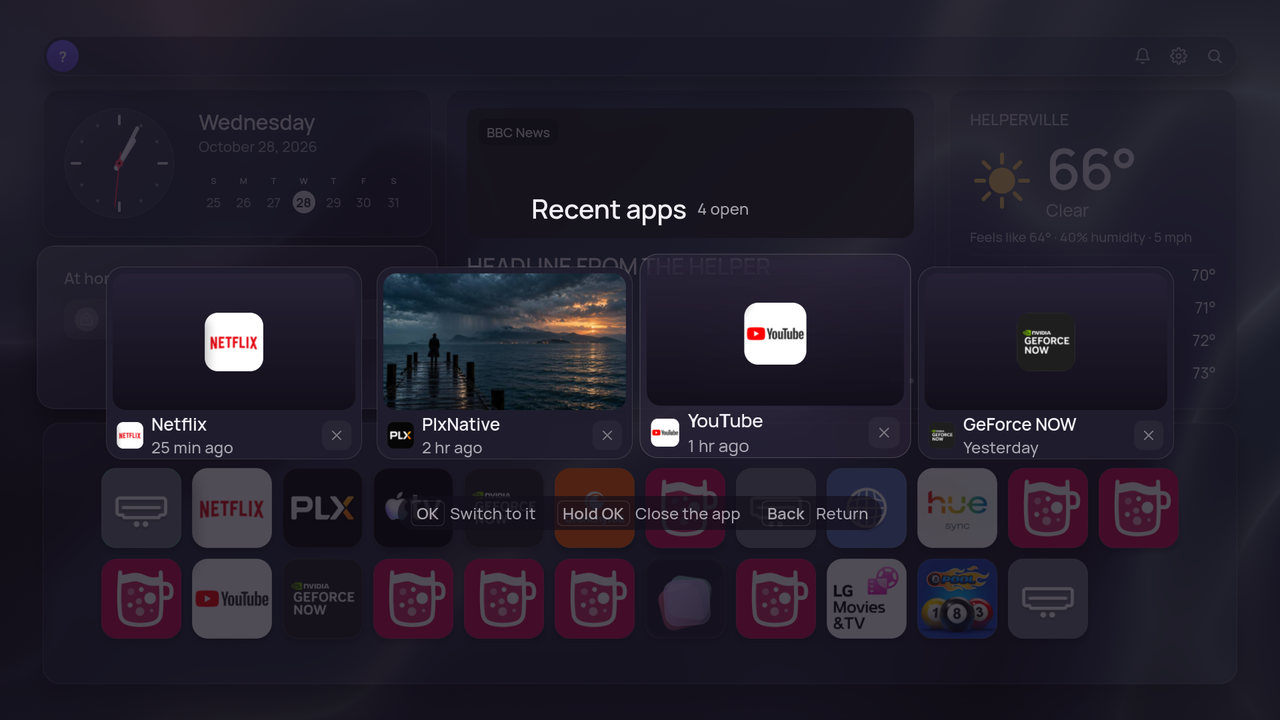
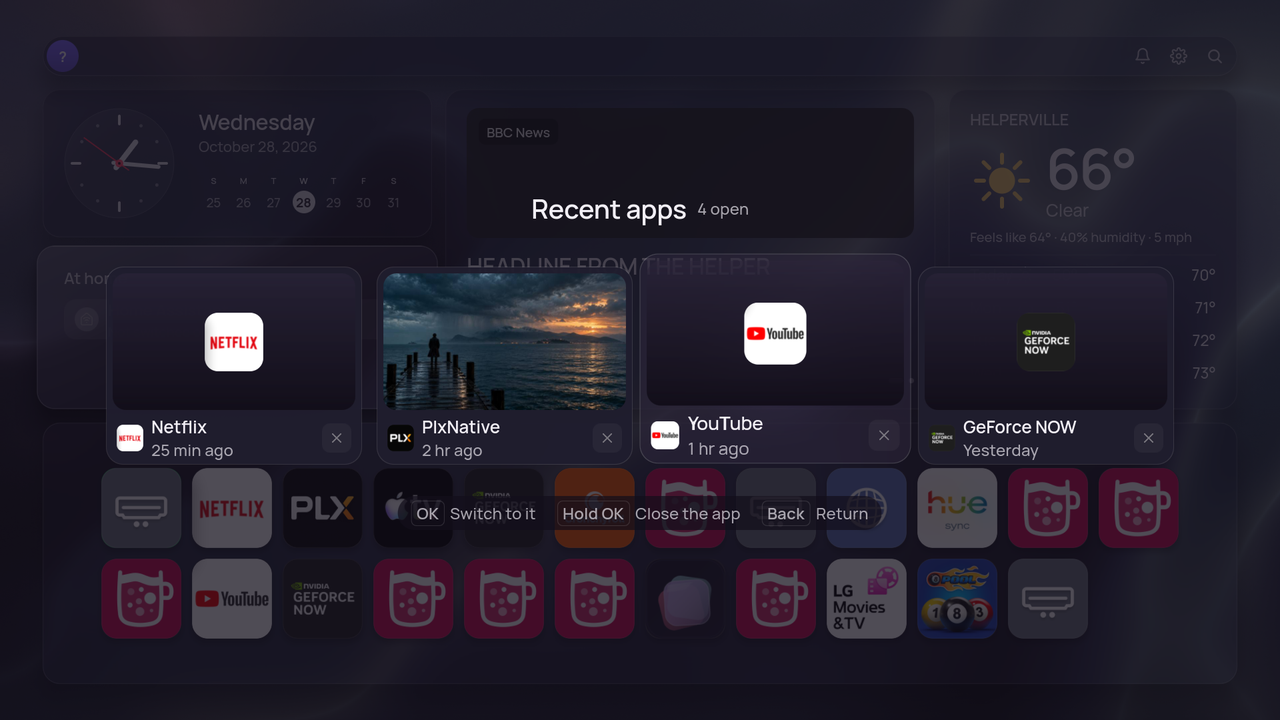
Recents and Quick Access: air under the time on a recent card, a denser veil behind it in the light theme, long app names wrap in the picks (layout audit at 100 % and 200 % text clean)

diff --git a/payload/compositor/lumatv/panels/QuickAccess.qml b/payload/compositor/lumatv/panels/QuickAccess.qml
@@ -118,7 +118,7 @@ Item {
                         id: pick
                         readonly property bool isMore: index === qa.moreIndex
                         readonly property bool isFocus: qa.asking && qa.index === index
-                        width: 140; height: 150
+                        width: 140; height: Math.max(150, pickName.y + pickName.implicitHeight + Lu.space(3))
                         FocusLift { id: lift; focused: pick.isFocus; rested: qa.rested; reduced: Lu.reduced; duration: Lu.cardMs; easing: Lu.cardEasing }
                         LuHalo { anchors.centerIn: parent; width: parent.width * 1.2; height: parent.height * 1.5; z: -1; on: pick.isFocus }
                         Rectangle {
@@ -133,10 +133,13 @@ Item {
                         LuAppIcon { visible: !pick.isMore; x: Math.round((pick.width - width) / 2); y: Lu.space(3); width: 76; height: 76; radius: 18; source: pick.isMore ? "" : (qa.picks[index] ? qa.picks[index].iconUrl || "" : "") }
                         LuTile { visible: pick.isMore; x: Math.round((pick.width - width) / 2); y: Lu.space(3); size: 76; icon: "ellipsis" }
                         LuText {
+                            id: pickName
                             x: Lu.space(1); y: Lu.space(3) + 76 + Lu.space(2)
                             width: pick.width - 2 * Lu.space(1)
                             horizontalAlignment: Text.AlignHCenter
                             role: "caption"
+                            wrapMode: Text.Wrap                         // "Homebrew Channel" on two lines, not cut short; a word wider than the tile (200 % text) breaks inside
+                            maximumLineCount: 3
                             elide: Text.ElideRight
                             text: pick.isMore ? "More\u2026" : (qa.picks[index] ? qa.picks[index].title : "")
                         }

diff --git a/payload/compositor/lumatv/panels/Recents.qml b/payload/compositor/lumatv/panels/Recents.qml
@@ -166,7 +166,7 @@ Item {
                                 Row {
                                     x: 6
                                     width: 364 - 12
-                                    height: 52
+                                    height: 60
                                     spacing: Lu.space(3)
                                     LuAppIcon { anchors.verticalCenter: parent.verticalCenter; width: 40; height: 40; radius: 10; source: card.r ? card.r.iconUrl : "" }
                                     Column {
